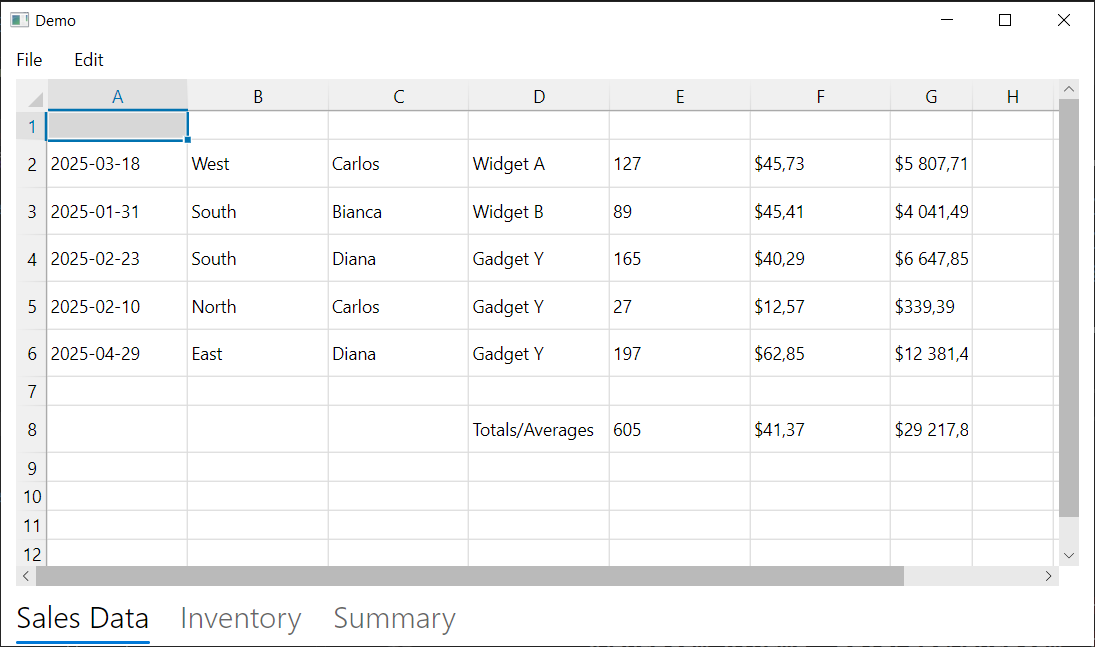
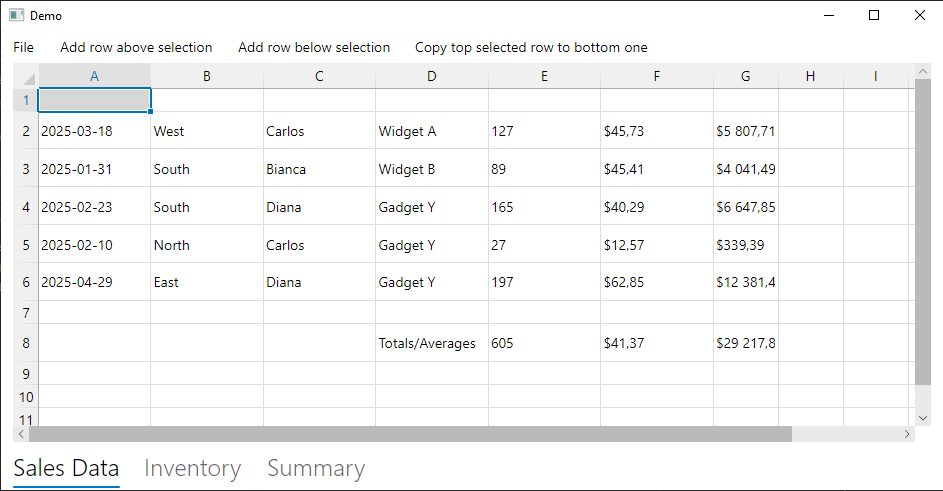
Updated Readme.
Video was not shown on Github mobile client. Now it shows screenshot instead. Browser version is fine.

diff --git a/Readme.md b/Readme.md
@@ -7,7 +7,7 @@
 
 The library is released under the [LGPLv3](https://www.gnu.org/licenses/lgpl-3.0.html) licence.
 
-https://github.com/user-attachments/assets/ee251316-fcdb-4e5a-b441-327e0edd6b72
+[![Watch the video](screenshot.png)](https://github.com/user-attachments/assets/ee251316-fcdb-4e5a-b441-327e0edd6b72)
 
 ## Getting started
 
